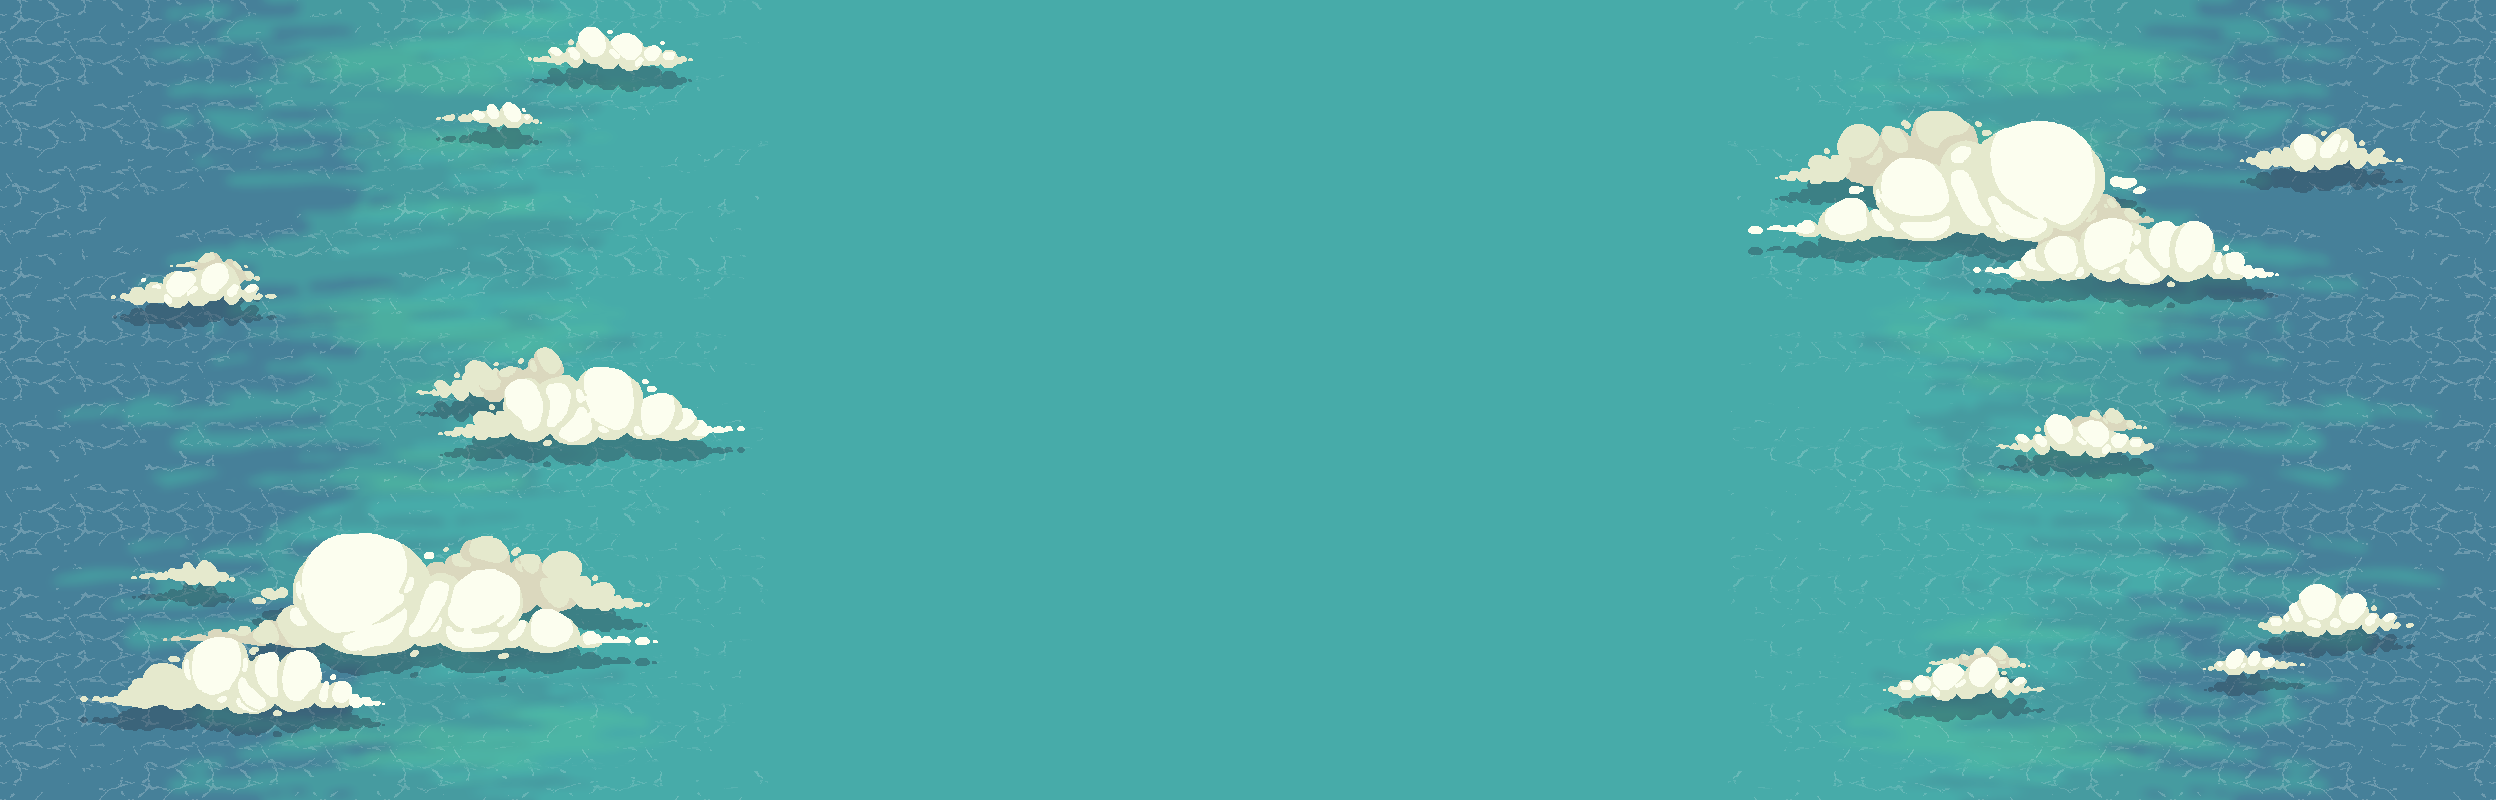
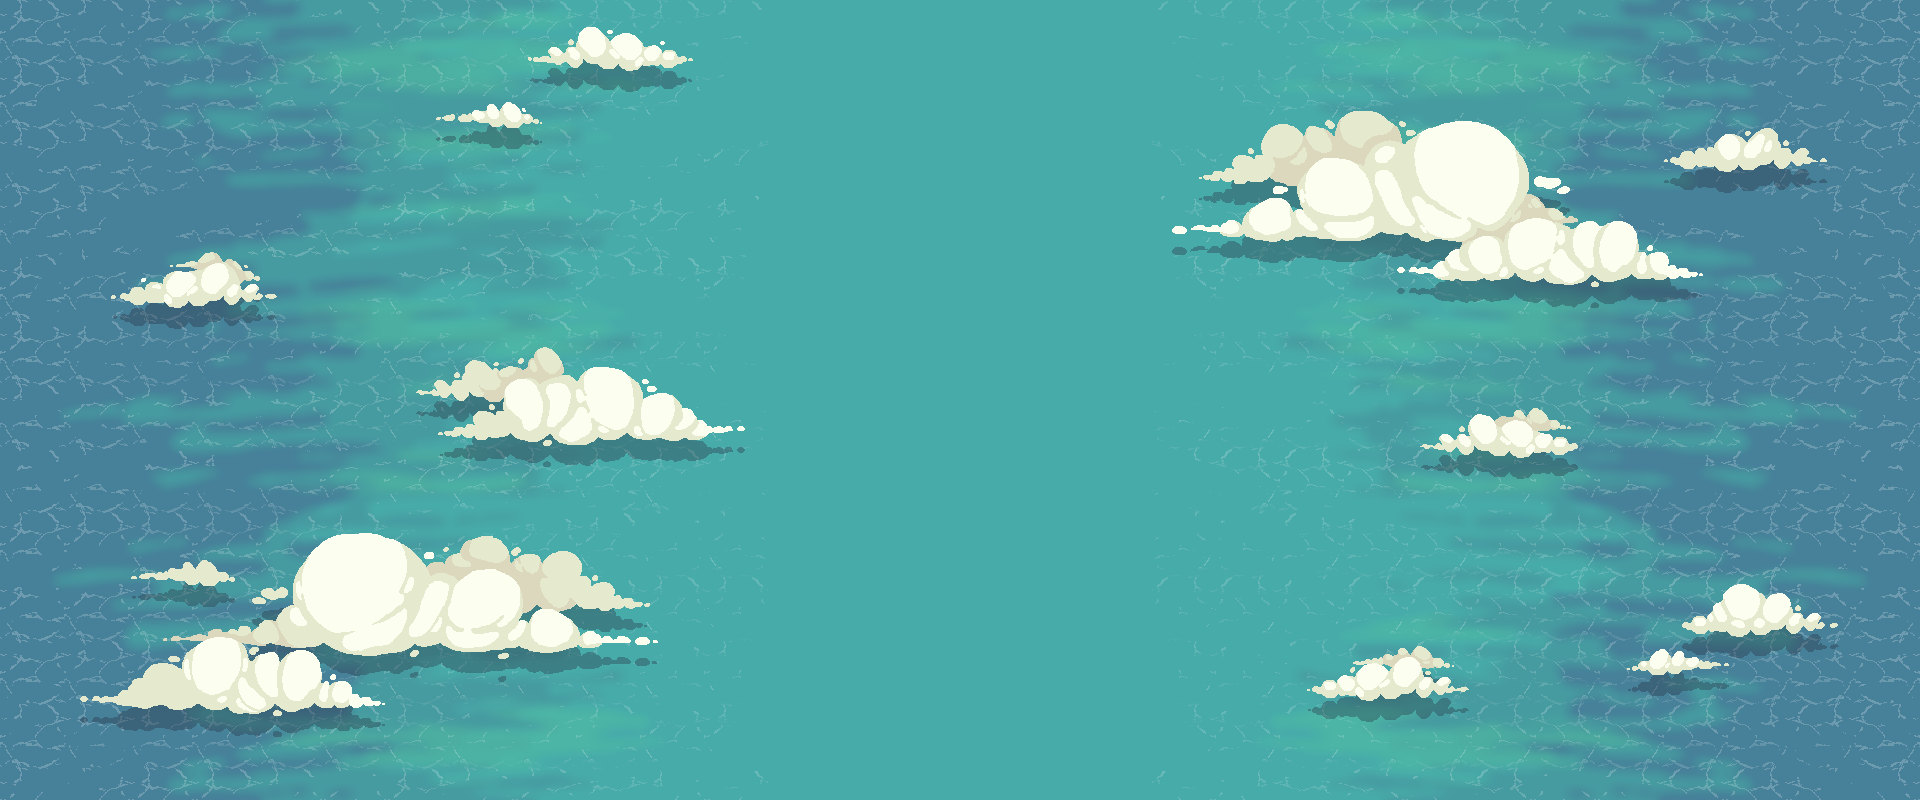
Cut the ultrawide menu backdrop to 1920x800 from the delivered strip
The delivered menu_background_long.png was 2496x800 (3.12:1) with a
1095 px band of plain sea in the middle; an ultrawide needs 800 x aspect,
at most 1920 for 3840x1600. tools/asset_pipeline/cut_menu_background_long.py
removes 576 px from the centre of the band, leaving 359 px of sea either
side of the seam, and the source moves to unused/ as the delivered-art
rule asks. The menu's cover scaling now shows the whole strip on
3840x1600 and crops 4 px a side on 3440x1440. Pinned by a --check test.

diff --git a/tools/asset_pipeline/cut_menu_background_long.py b/tools/asset_pipeline/cut_menu_background_long.py
@@ -1,0 +1,70 @@
+"""Cut the ultrawide menu backdrop to 1920x800 from the delivered strip.
+
+The delivered `menu_background_long_source.png` is 2496x800, a 3.12:1 strip
+with clouds at both ends and a plain sea band in the middle (measured: no
+cloud pixel between x 703 and x 1797). An ultrawide screen needs 800 x
+aspect: 1867 for 21:9 nominal, 1911 for 3440x1440, 1920 for 3840x1600. The
+owner picked 1920 (2.4:1, the widest of the common ultrawides, 2026-09-16):
+the menu's cover scaling (`MenuState.draw_backdrop`) then shows the whole
+strip on 3840x1600 and crops 4 px a side on 3440x1440.
+
+So `CUT` = 576 px are removed from the centre of the plain band -- x 960 to
+1535 -- and the two halves are joined: 359 px of plain sea remain either side
+of the seam, well clear of the clouds, so nothing shows. The source stays in
+`unused/` beside the strip (the project's rule for delivered art); the game
+reads `menu_background_long.png` only.
+
+    python tools/asset_pipeline/cut_menu_background_long.py            # writes the strip
+    python tools/asset_pipeline/cut_menu_background_long.py --check    # exits 1 if it differs
+"""
+from __future__ import annotations
+
+import os
+import sys
+
+os.environ.setdefault("SDL_VIDEODRIVER", "dummy")
+
+import pygame
+
+# repo root: this file lives in tools/asset_pipeline/, two folders down
+ROOT = os.path.dirname(os.path.dirname(os.path.dirname(os.path.abspath(__file__))))
+FOLDER = os.path.join(ROOT, "assets", "ui", "start_screen")
+SOURCE = os.path.join(FOLDER, "unused", "menu_background_long_source.png")
+OUT = os.path.join(FOLDER, "menu_background_long.png")
+
+SOURCE_SIZE = (2496, 800)
+WIDTH = 1920                 # the owner's pick: 2.4:1
+CUT = SOURCE_SIZE[0] - WIDTH  # 576 px out of the middle
+LEFT = (SOURCE_SIZE[0] - CUT) // 2       # 960: the first removed column
+RIGHT = LEFT + CUT                       # 1536: the first kept column after the cut
+
+
+def cut(source: pygame.Surface) -> pygame.Surface:
+    if source.get_size() != SOURCE_SIZE:
+        raise SystemExit(f"source is {source.get_size()}, expected {SOURCE_SIZE}")
+    w, h = SOURCE_SIZE
+    out = pygame.Surface((WIDTH, h), pygame.SRCALPHA)
+    out.blit(source, (0, 0), pygame.Rect(0, 0, LEFT, h))
+    out.blit(source, (LEFT, 0), pygame.Rect(RIGHT, 0, w - RIGHT, h))
+    return out
+
+
+def main(argv) -> int:
+    pygame.init()
+    want = cut(pygame.image.load(SOURCE))
+    if "--check" in argv:
+        if not os.path.exists(OUT):
+            print("missing", OUT)
+            return 1
+        have = pygame.image.load(OUT)
+        same = (have.get_size() == want.get_size()
+                and pygame.image.tostring(have, "RGBA") == pygame.image.tostring(want, "RGBA"))
+        print("ok" if same else "differs", OUT)
+        return 0 if same else 1
+    pygame.image.save(want, OUT)
+    print("wrote", OUT, want.get_size())
+    return 0
+
+
+if __name__ == "__main__":
+    raise SystemExit(main(sys.argv[1:]))

diff --git a/tests/screens/test_ultrawide.py b/tests/screens/test_ultrawide.py
@@ -94,6 +94,24 @@ class DimCoversTheMarginsTests(unittest.TestCase):
         self.assertEqual(s2.get_at(MARGIN_PX)[:3], config.MENU_BG)
 
 
+class LongBackgroundStripTests(unittest.TestCase):
+    """`menu_background_long.png` is the delivered 2496x800 strip with 576 px
+    of plain sea cut from its middle (owner, 2026-09-16: 1920 wide, 2.4:1,
+    the widest common ultrawide). The cut script is the source of truth and
+    the seam must be sea on both sides."""
+
+    def test_the_strip_is_what_the_cut_script_makes(self):
+        from tools.asset_pipeline import cut_menu_background_long as cut
+        self.assertEqual(cut.main(["--check"]), 0)
+        img = pygame.image.load(cut.OUT)
+        self.assertEqual(img.get_size(), (1920, 800))
+        blue = (71, 171, 169)                         # the sea, measured on the source
+        for x in range(cut.LEFT - 10, cut.LEFT + 11, 2):
+            clouds = sum(1 for y in range(0, 800, 4)
+                         if sum(abs(a - b) for a, b in zip(img.get_at((x, y))[:3], blue)) > 90)
+            self.assertEqual(clouds, 0, f"cloud pixels at the seam column {x}")
+
+
 class ScreenBackdropTests(unittest.TestCase):
     """A screen with a background of its own paints it on the whole
     surface (owner, 2026-09-16: the loading screen showed as a black square

diff --git a/documentation/journals/window_scaling_journal.md b/documentation/journals/window_scaling_journal.md
@@ -423,6 +423,15 @@ open points are folded in below.
   surface in `draw_backdrop`, scaled to cover the height and centred, and
   skips the 16:9 art in the box; `config.MENU_BACKGROUND_LONG_IMAGE`.
   Pinned in `tests/screens/test_ultrawide.py`; verified at 3440x1440.
+  The strip itself was then cut (owner, 2026-09-16, "1920, go"): the
+  delivered 2496x800 art had a 1095 px band of plain sea in its middle,
+  and an ultrawide needs 800 x aspect -- 1867 (21:9), 1911 (3440x1440),
+  1920 (3840x1600). 576 px are removed from the centre by
+  `tools/asset_pipeline/cut_menu_background_long.py`, leaving 359 px of
+  sea either side of the seam; the source moved to
+  `assets/ui/start_screen/unused/` as the project's art rule asks. The
+  cover scaling now shows the whole strip on 3840x1600 and crops 4 px a
+  side on 3440x1440.
 
 ### Verified on the real window (3440x1440)
 
